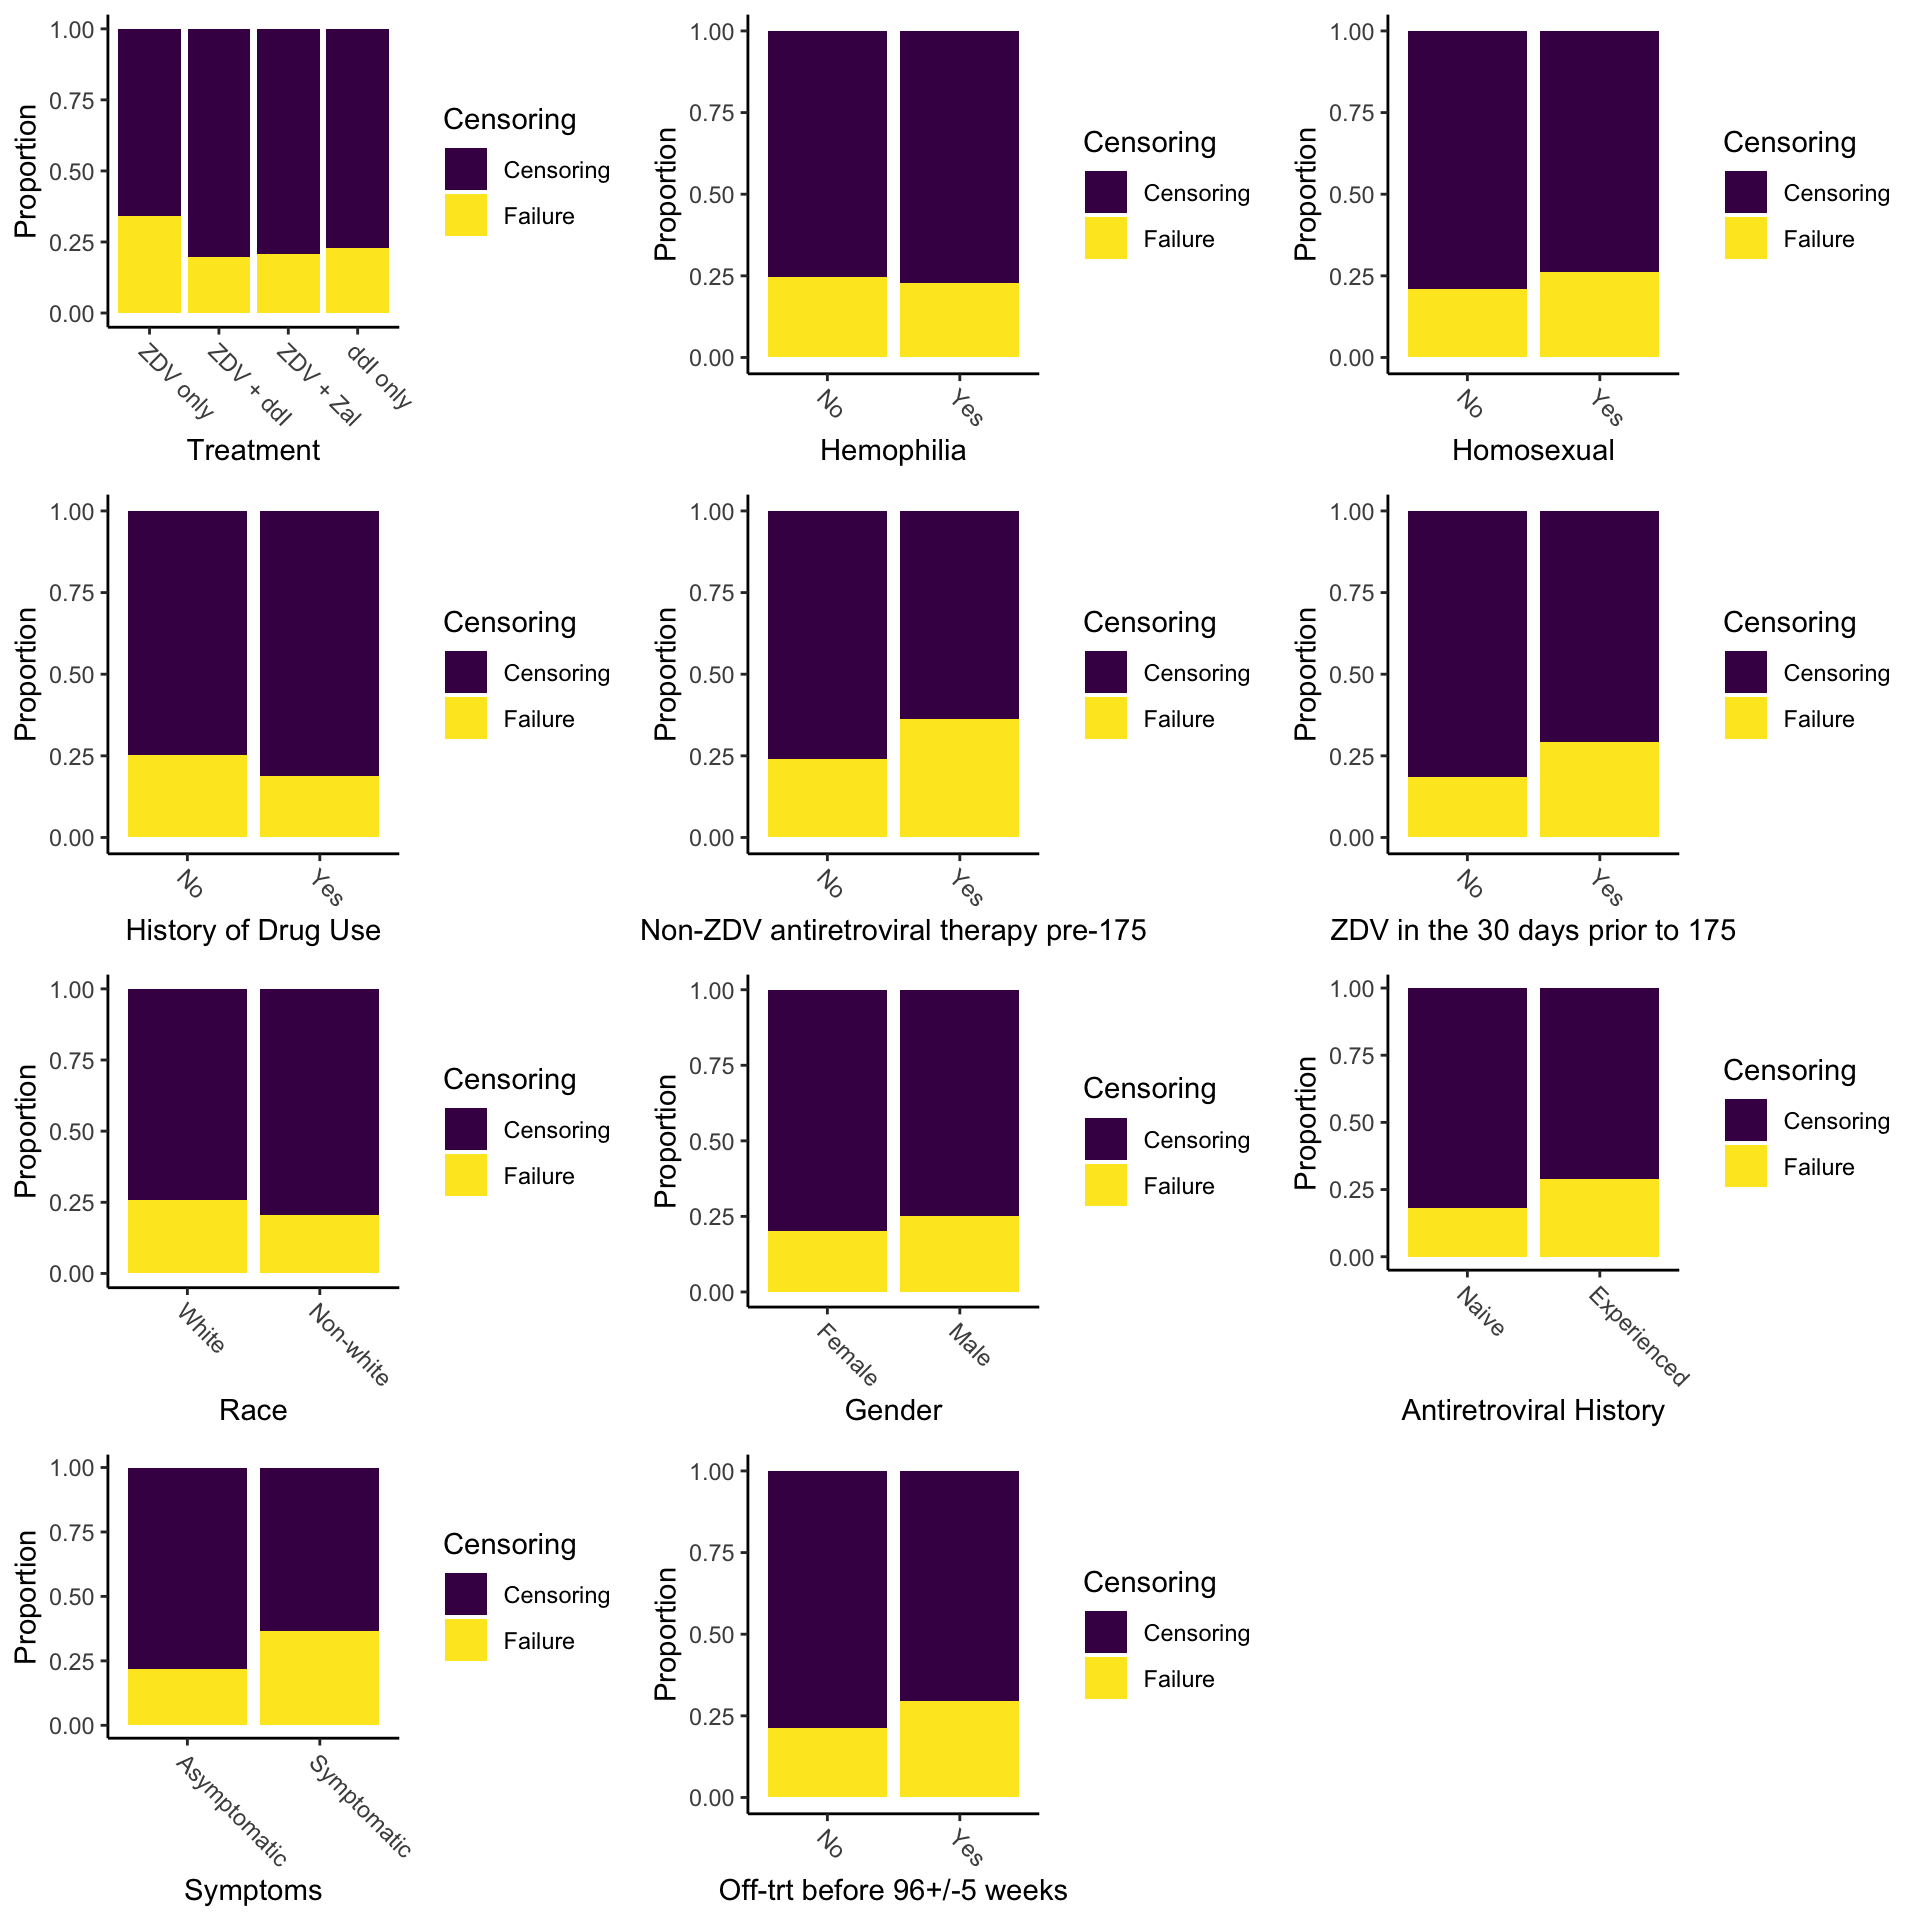
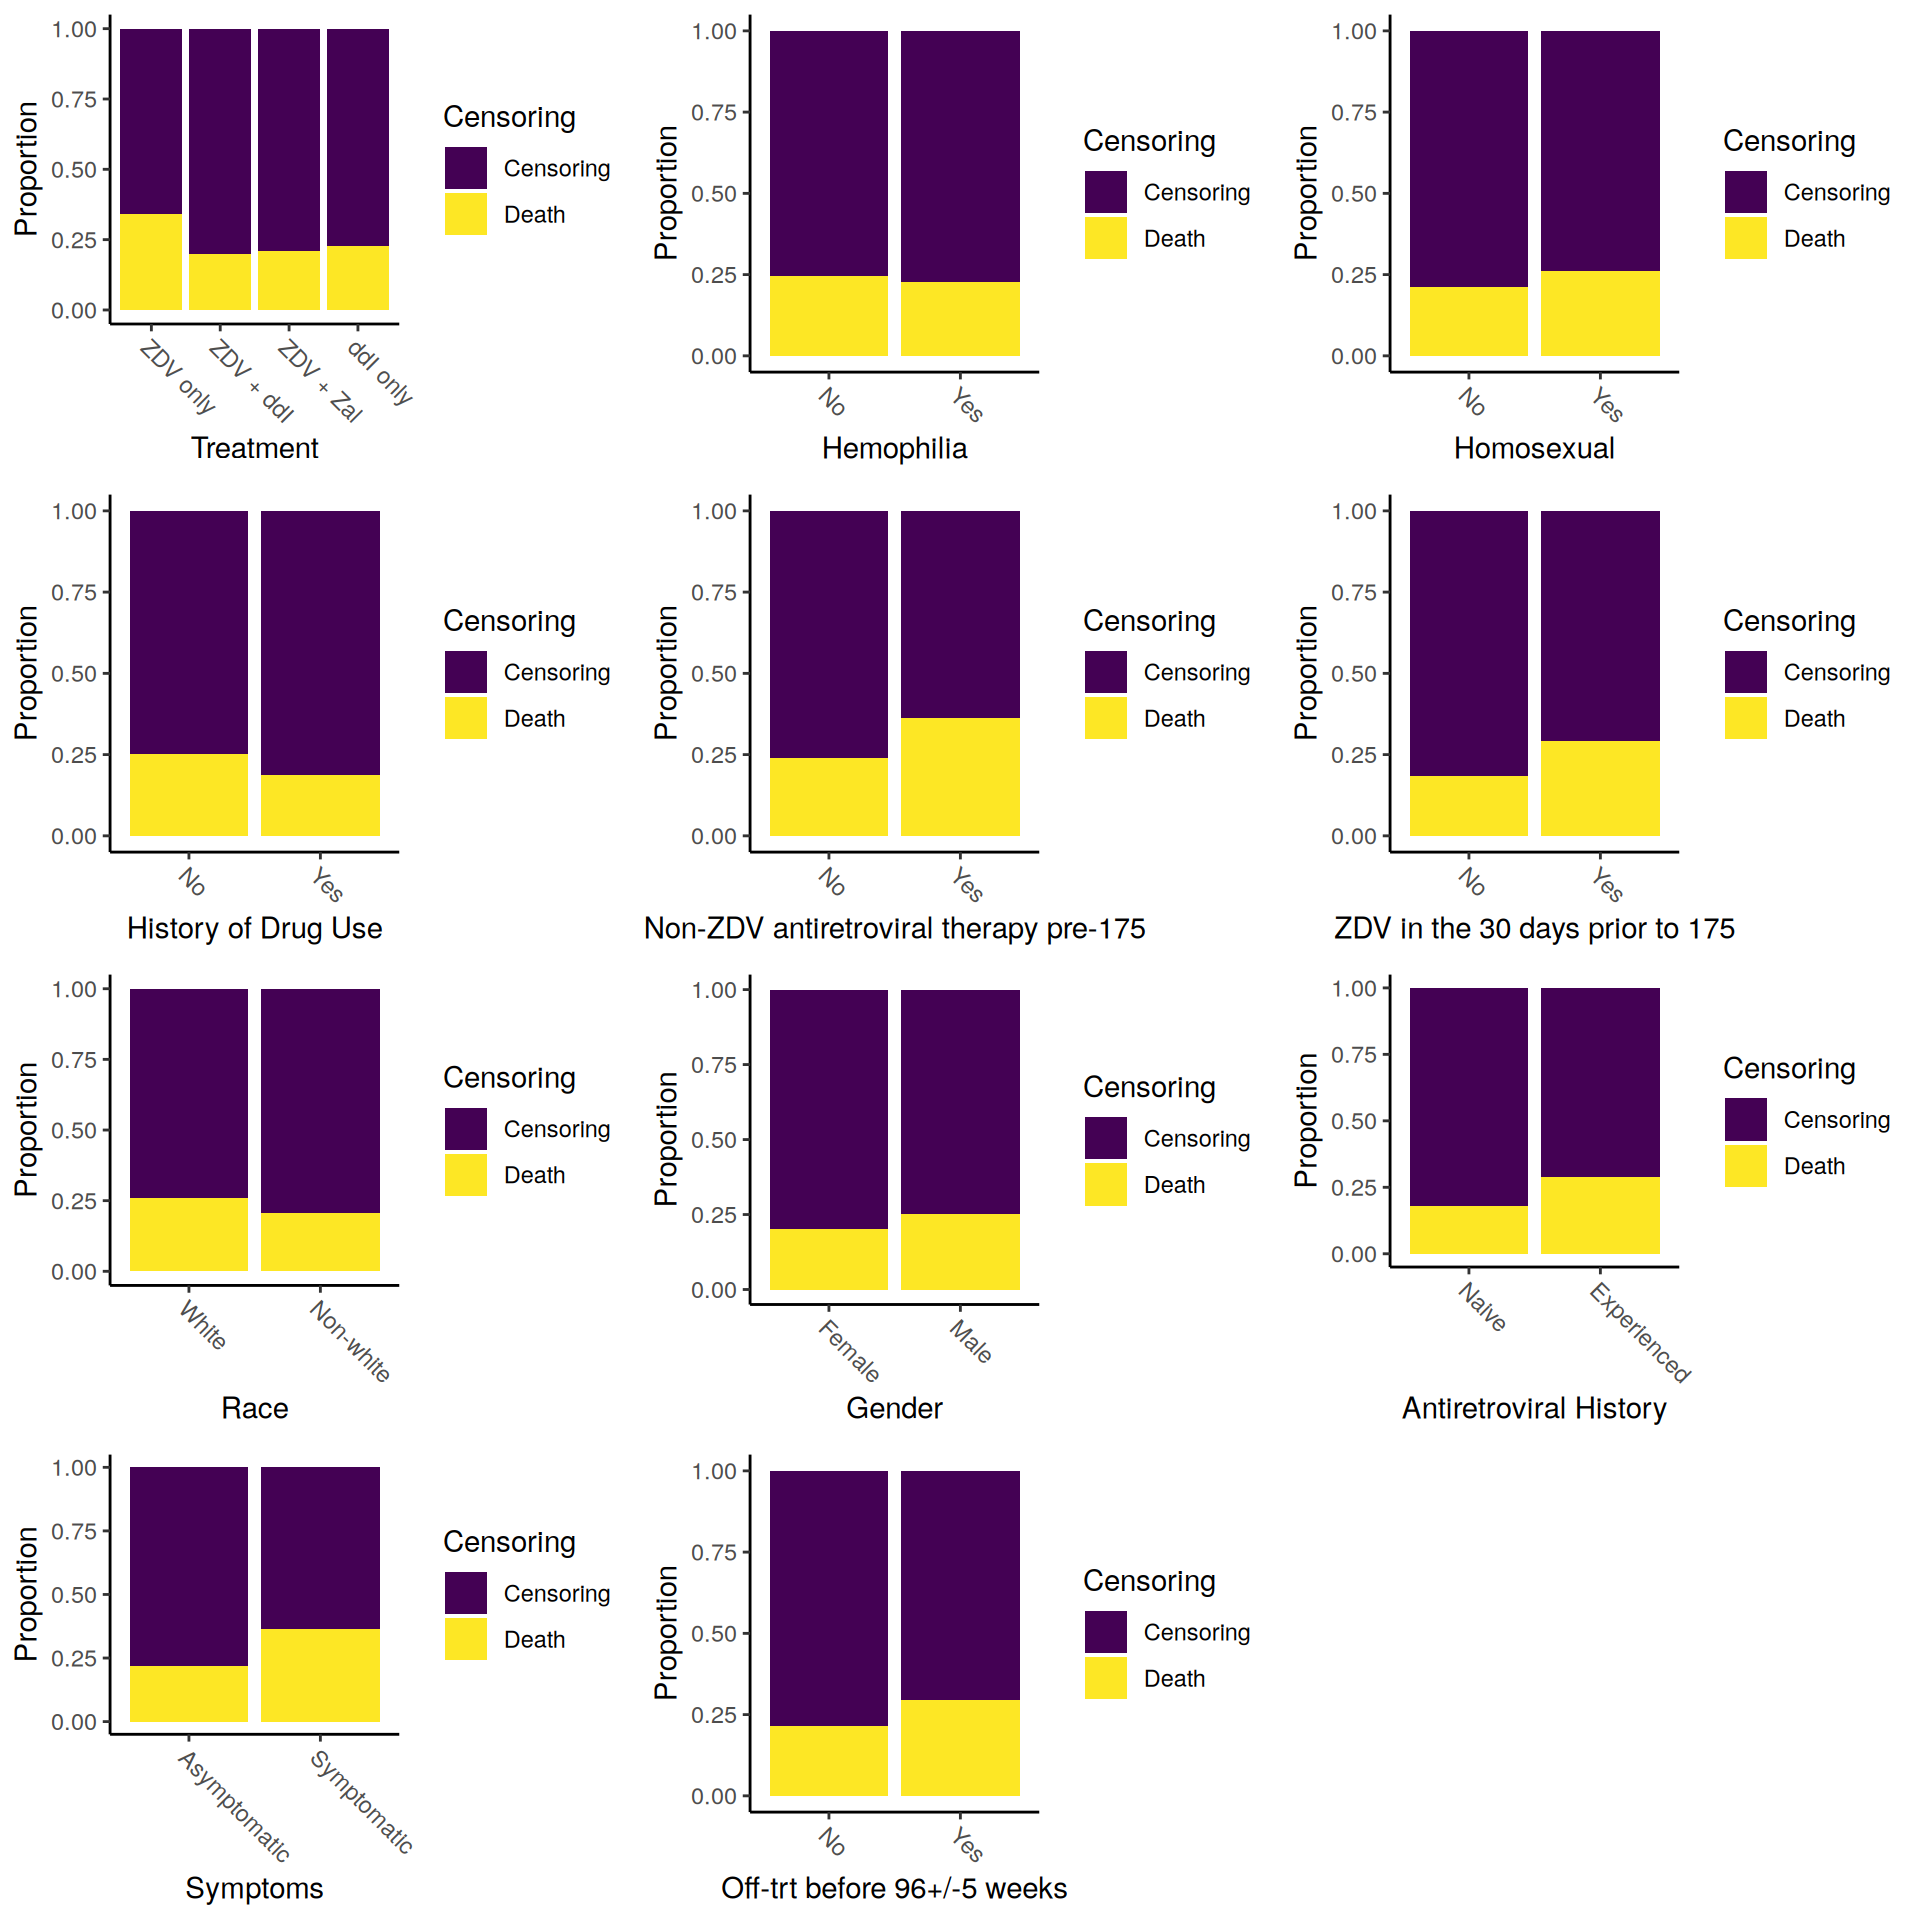
Add detail to data description

diff --git a/Data.html b/Data.html
@@ -374,12 +374,29 @@ div.tocify {
 we looked at a dataset published in 1996 by the AIDs Clinical Trials
 Group. The study where these data were collected compared 4 different
 AIDs treatments, but additionally this dataset contains information on
-21 other predictors of death due to AIDS.</p>
+21 other predictors of death due to AIDS for the 2,139 study
+participants. The primary column of interest is <code>cid</code>
+(censoring indicator), which indicates whether or not the person died
+within the period of observation. A detailed description of the dataset
+can be found in the <a
+href="https://archive.ics.uci.edu/dataset/890/aids+clinical+trials+group+study+175">UC
+Irvine Machine Learning Repository</a>.</p>
 <div id="factors-that-affect-death-due-to-aids" class="section level1">
 <h1>Factors that Affect Death Due to AIDs</h1>
 <p>Having a look at some of the categorical variables in the dataset,
-most do seem to be related to death due to AIDs, with the exception of
-hemophilia and perhaps race.</p>
+most do seem to be related to death due to AIDs, which we can see by the
+differing proportions of death between groups. The exceptions are
+hemophilia and perhaps race, which have little or no difference between
+groups. As we might expect, patients who had previously received some
+type of treatment (Non-ZDV antiretroviral therapy pre-175, ZDV in the 30
+days prior to 175, Antiretroviral History) had higher death rates than
+those who had not, presumably because patients who had previously
+received treatment and still met the study inclusion criteria were more
+resistant to treatment. Also of note, is that just from this one plot we
+can see that the “ZDV only” treatment performed worse than the other
+three, which intuition is confirmed by the results of <a
+href="https://pubmed.ncbi.nlm.nih.gov/8813038/">the original
+study</a>.</p>
 <p><img src="Data_files/figure-html/unnamed-chunk-3-1.png" width="960" /></p>
 </div>
 
